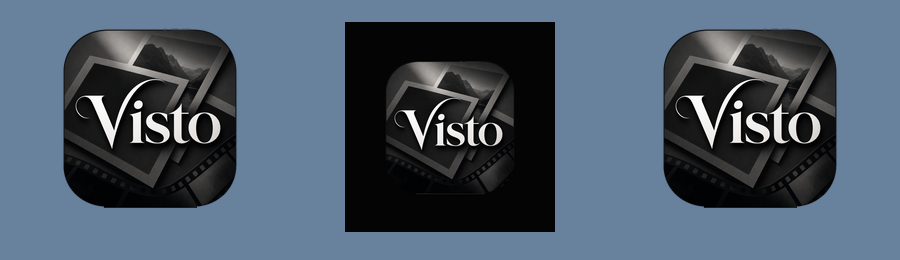
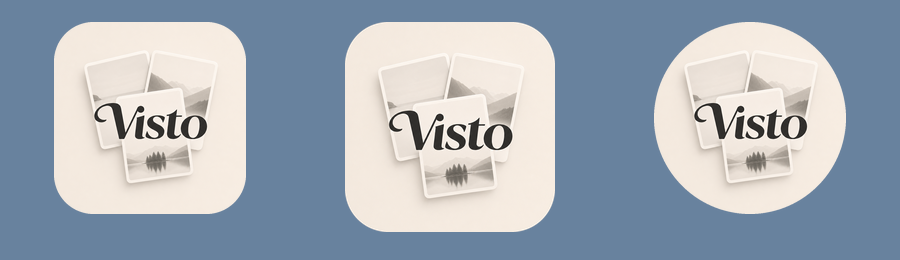
release: prepare Visto 1.0.5

diff --git a/app/src/test/java/app/visto/ProjectSmokeTest.kt b/app/src/test/java/app/visto/ProjectSmokeTest.kt
@@ -8,6 +8,6 @@ class ProjectSmokeTest {
     fun appInfoMatchesProjectIdentity() {
         assertEquals("Visto", AppInfo.APP_NAME)
         assertEquals("app.visto", AppInfo.PACKAGE_NAME)
-        assertEquals("1.0.4", AppInfo.VERSION_NAME)
+        assertEquals("1.0.5", AppInfo.VERSION_NAME)
     }
 }

diff --git a/app/src/main/java/app/visto/AppInfo.kt b/app/src/main/java/app/visto/AppInfo.kt
@@ -3,6 +3,6 @@ package app.visto
 object AppInfo {
     const val APP_NAME = "Visto"
     const val PACKAGE_NAME = "app.visto"
-    const val VERSION_NAME = "1.0.4"
-    const val VERSION_CODE = 17
+    const val VERSION_NAME = "1.0.5"
+    const val VERSION_CODE = 18
 }

diff --git a/RELEASE_NOTES.md b/RELEASE_NOTES.md
@@ -1,6 +1,6 @@
-Visto 1.0.4
+Visto 1.0.5
 
-- 修复启动器图标圆角边缘出现浅色/白色描边的问题。
-- 清理图标源图外圈浅色 matte，并重新生成 Android 各密度 launcher icon。
-- 将 adaptive launcher 图标背景改为深色，避免系统 mask 后透出浅色边缘。
+- 更换为新的 Visto 应用图标。
+- 使用新 logo 的 1.2x 放大版本生成 Android 各密度 launcher icon。
+- 同步 adaptive icon 背景色，避免图标边缘出现不匹配的描边。
 - App 启动页背景继续保持原浅色，不受图标背景调整影响。
